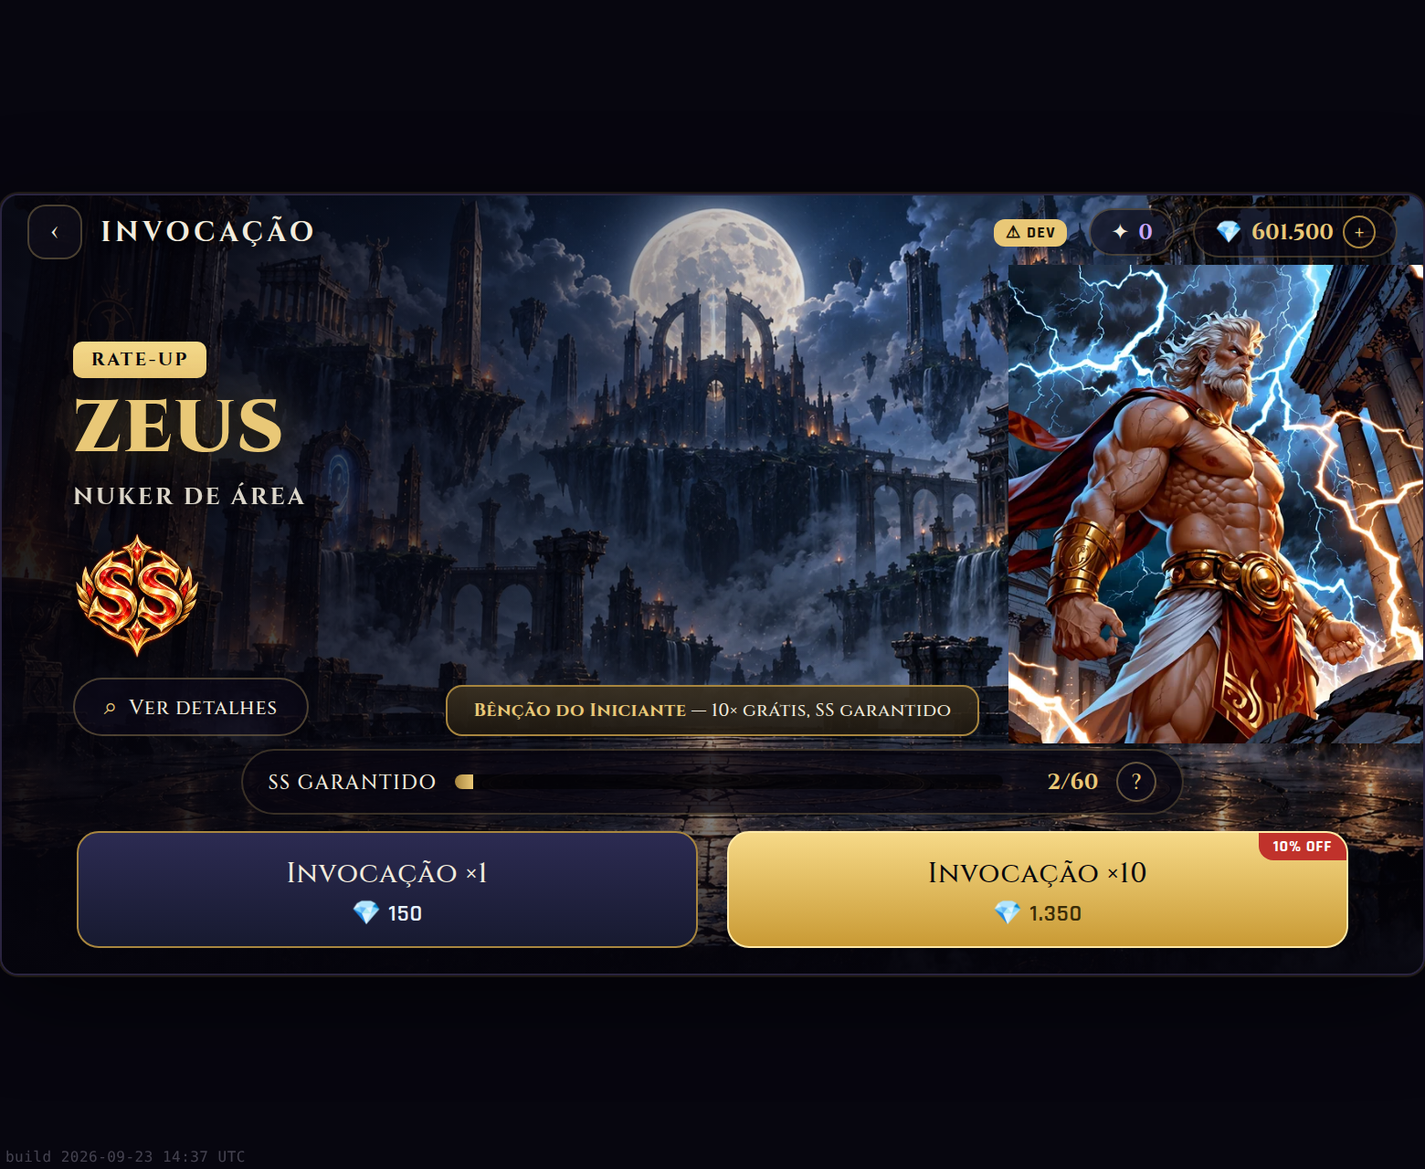
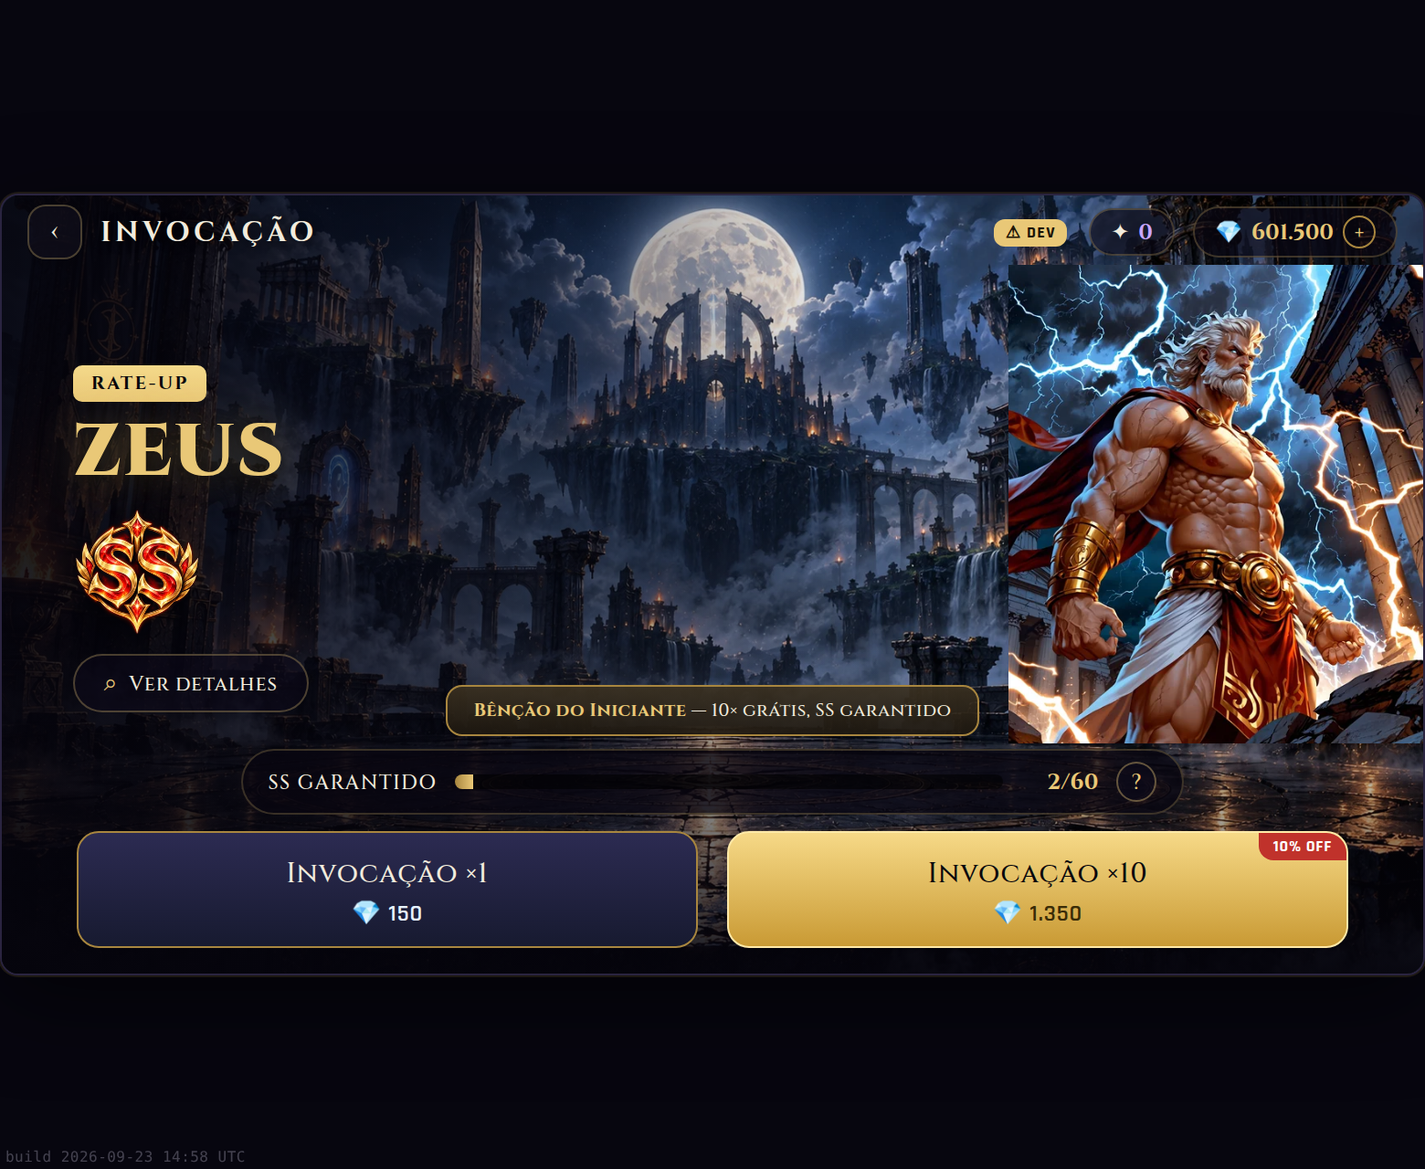
§304b invocação: epíteto sai da tela; frase liberada por destaque, não pelos 100
Duas decisões que encolhem escopo (dono):

1) O EPÍTETO SAI da tela de invocação. "Nuker de área" é legenda mecânica — boa na Coleção,
   ruim sob o nome numa tela de cerimônia. Tirei a linha (.iv-hero__arq fora); o nome grande +
   o selo bastam. Libera ~26px na coluna herói; a figura não desce sozinha (o limite dela é a
   barra de pity, não a coluna). Se um dia houver campo de epíteto próprio, ele volta.

2) A FRASE fica liberada, mas por DESTAQUE, não pelos 100. frase vira conteúdo do banner
   (data/invocacao.json → INVOCACAO.destaque.frase), não campo do elenco (§283 supera o §288).
   Escreve-se a de quem entra em destaque, uma por vez; ausente → some (nunca inventada).
   Guarda §292 ajustado: a citação saiu da sobreposição da Coleção (col2ov__cite removido do
   render e do CSS) — a Coleção continua sem orçamento e não mostra frase nem com frase no dado;
   só a invocação a comporta (~200-220 chars). Regra: frase é conteúdo do destaque, não do elenco.
   destaque.frase fica vazio (o dono escreve a do Zeus quando quiser).

Guardas: invocacao.test.js seção 12 (frase do destaque some/aparece; sem epíteto); colecao_tela
e colecao_encaixe (§292→§304b: Coleção não renderiza cite nem com frase); aquisicao (odds na
auditoria). Capturas 780/951 atualizadas. Suíte + build verdes.

Claude-Session: https://claude.ai/code/session_01RXkcJMEMadTZtCymgt9Yf6

Changed region(s): [[0.0308, 0.2812, 0.2154, 0.625]]

diff --git a/tests/colecao_encaixe.test.js b/tests/colecao_encaixe.test.js
@@ -66,36 +66,33 @@ const ok = (c, m) => { if (!c) { falhas++; console.log('  XX ' + m); } };
     }
   }
 
-  // (§295-cont) A FRASE (g.frase → col2ov__cite) é a dimensão que vai MORDER: o campo foi reservado no §288 p/ o dono
-  // escrever as 100; hoje 0/100 têm, então o bloco nunca renderiza cheio e nenhuma guarda o via — a assinatura exata do
-  // problema (a guarda percorre o que EXISTE NO DADO, não o que o CÓDIGO desenha). Aqui a dimensão é coberta ANTES da
-  // frase existir: (A) guarda de dado — enquanto a sobreposição não tiver ORÇAMENTO p/ a cite, nenhum deus pode ter
-  // frase (o dia que a 1ª entrar, ISTO quebra e força a decisão de onde a frase mora); (B) medição — semeia uma frase
-  // sintética de ~70 chars e imprime QUANTO corta, p/ o dono saber o orçamento antes de escrever.
+  // (§304b) A FRASE saiu da sobreposição: virou conteúdo do DESTAQUE (só a tela de invocação a mostra). O §288
+  // reservava g.frase → col2ov__cite AQUI; o §292/§295 provou que a sobreposição NÃO tem orçamento (uma cite corta
+  // a caixa de efeito). §304b resolve: a Coleção NÃO renderiza a cite, NEM com `frase` no dado. Esta guarda confirma
+  // que a sobreposição continua SEM LUGAR para a frase: (A) mesmo semeando frase em todos, ZERO cite aparece e ZERO
+  // efeito corta; (B) mede a folga vertical da caixa de efeito (~0), o motivo de a frase morar no destaque, não aqui.
   await page.setViewportSize({ width: 780, height: 428 });
   const frase = await page.evaluate(() => {
     ROSTER.forEach(e => { perfil.deuses[e.key] = perfil.deuses[e.key] || { obtidoEm: Date.now(), copias: 1 }; });
-    // (A) nenhum deus tem frase HOJE (a sobreposição não tem orçamento p/ a cite — medido §295)
-    const comFrase = ROSTER.filter(e => GODS[e.key] && GODS[e.key].frase).map(e => e.key);
-    // (B) mede o orçamento: semeia 70 chars em todos e conta os efeitos que passam a cortar (piso 780, o pior)
     const F = 'Aquele que caminha entre os mundos e nunca teme a morte alheia ou a sua';
-    ROSTER.forEach(e => { if (GODS[e.key]) GODS[e.key].frase = F; });
+    ROSTER.forEach(e => { if (GODS[e.key]) GODS[e.key].frase = F; });   // semeia frase em TODOS (o pior caso)
     ir('colecao', {}, { substituir: true }); render();
-    let corta = 0, citeH = 0;
+    let cites = 0, corta = 0, folgaMin = 1e9;
     for (const e of ROSTER) {
       colAbrirVer(e.key);
-      const cite = document.querySelector('.col2ov__cite'); if (cite && !citeH) citeH = Math.round(cite.getBoundingClientRect().height);
+      if (document.querySelector('#col2ov .col2ov__cite')) cites++;   // §304b: deve seguir 0 (a Coleção não mostra frase)
       for (const slot of ['basico', 'habilidade', 'milagre', 'passiva']) {
         const chip = document.querySelector('#col2ov .col2ov__sk[data-versel="' + slot + '"]'); if (chip) chip.dispatchEvent(new MouseEvent('click', { bubbles: true }));
-        const dt = document.querySelector('#col2ovdet .col2ov__deftxt'); if (dt && dt.scrollHeight > dt.clientHeight + 1) corta++;
+        const dt = document.querySelector('#col2ovdet .col2ov__deftxt'); if (dt) { if (dt.scrollHeight > dt.clientHeight + 1) corta++; folgaMin = Math.min(folgaMin, dt.clientHeight - dt.scrollHeight); }
       }
       colFecharVer();
     }
     ROSTER.forEach(e => { if (GODS[e.key]) delete GODS[e.key].frase; });   // limpa o synthetic
-    return { comFrase, citeH, corta, fraseLen: F.length };
+    return { cites, corta, folgaMin, fraseLen: F.length };
   });
-  ok(frase.comFrase.length === 0, `§295: ${frase.comFrase.length} deuses já têm g.frase (${frase.comFrase.slice(0, 5).join(',')}) — a sobreposição NÃO tem orçamento p/ a cite (medido: uma frase corta a caixa de efeito). Dê uma casa à frase (fora da caixa de efeito do §292) ANTES de escrevê-las, senão cortam.`);
-  console.log(`  §295 FRASE — orçamento medido: uma frase de ${frase.fraseLen} chars (cite ${frase.citeH}px) faria ${frase.corta}/400 efeitos CORTAREM a 780. Orçamento atual da cite na sobreposição: ~0 (a caixa de efeito do §292 tem só ~6px de folga). Nenhum deus tem frase hoje: ${frase.comFrase.length === 0 ? 'ok' : 'JÁ QUEBROU'}.`);
+  ok(frase.cites === 0, `§304b: a sobreposição da Coleção NÃO renderiza citação nem com frase no dado (viram ${frase.cites} cites) — a frase é do destaque, não do elenco`);
+  ok(frase.corta === 0, `§304b: sem cite na sobreposição, nenhum efeito corta (${frase.corta}/400) — a frase não rouba o orçamento daqui`);
+  console.log(`  §304b FRASE — a Coleção não comporta a cite (folga da caixa de efeito ~${frase.folgaMin}px, medida §292): por isso a frase mora no DESTAQUE (tela de invocação, ~200-220 chars). Com frase em todos: ${frase.cites} cites, ${frase.corta}/400 cortes na Coleção.`);
 
   await browser.close();
   console.log(falhas === 0 ? '\n>>> COLEÇÃO-ENCAIXE OK' : `\n>>> ${falhas} FALHA(S)`);

diff --git a/tests/invocacao.test.js b/tests/invocacao.test.js
@@ -34,7 +34,7 @@ console.log('== 2. a tela monta a partir do botão Invocar ==');
   ok(w.eval('typeof INV.claimIniciante') === 'function', 'claimIniciante é a porta única da oferta grátis');
   // §304: layout do mockup — o deus em destaque é nome (Cinzel) + arquétipo + selo grande; cartas só na revelação.
   ok(!!$('.iv-hero__nome') && $('.iv-hero__nome').textContent.trim().length > 0, 'o NOME do deus em destaque renderiza (coluna herói)');
-  ok(!!$('.iv-hero__arq'), 'o ARQUÉTIPO do deus renderiza (epíteto do jogo, não "Pai dos Deuses")');
+  ok(!$('.iv-hero__arq'), '§304b: o EPÍTETO (arquétipo) NÃO aparece na tela de cerimônia — o nome + selo bastam');
   ok(!!$('.iv-hero__selo'), 'o SELO grande (§303) renderiza no herói');
   ok(!!$('.iv-oferta'), 'a Bênção do Iniciante aparece como OFERTA única inline (não aba)');
   ok(/\/60/.test($('#iv-pity').textContent), 'o pity de SS (/60) deveria aparecer');
@@ -205,15 +205,16 @@ console.log('== 12. §304 tela pelo mockup: preço do DADO, frase some, fundo/ar
     'os botões leem o custo de ECONOMIA.invocacao.custo (dado), não de um literal');
   ok(!/custo\s*[:=]\s*\d/.test(fonteInv) && !/cost\s*=\s*(150|1350)\b/.test(fonteInv), 'nenhum custo numérico escrito à mão em invocacao.js');
   ok(/10% OFF/.test($('.iv-pb.iv-x10').textContent), 'o selo 10% OFF fica no ×10 (o pacote de dez), não no ×1');
-  // (2) a FRASE some quando não existe (§292: reservada e vazia nos 100) e aparece quando há — nunca inventada.
-  ok(!$('.iv-hero__cite'), 'sem frase no dado, a linha de citação SOME (nada renderiza)');
-  ok(!w.eval('!!(GODS.zeus && GODS.zeus.frase)'), 'o dado NÃO tem frase preenchida (guarda §292 respeitada)');
-  w.eval("GODS[INVOCACAO.destaque.deus].frase='teste'; INV.render();");
-  ok(!!$('.iv-hero__cite'), 'com frase presente, a linha aparece (a tela É casa para a frase)');
-  w.eval("GODS[INVOCACAO.destaque.deus].frase=undefined; INV.render();");
+  // (2) §304b: a FRASE é conteúdo do DESTAQUE (INVOCACAO.destaque.frase), não do elenco. Some quando não há, aparece
+  //     quando o dono escreve a de quem entra em destaque — nunca inventada.
+  ok(!$('.iv-hero__cite'), 'sem frase no destaque, a linha de citação SOME (nada renderiza)');
+  ok(!w.eval('!!(INVOCACAO.destaque && INVOCACAO.destaque.frase)'), 'o destaque NÃO tem frase preenchida (não inventada)');
+  w.eval("INVOCACAO.destaque.frase='O céu obedece.'; INV.render();");
+  ok(!!$('.iv-hero__cite') && /O céu obedece/.test($('.iv-hero__cite').textContent), 'com frase no destaque, a linha aparece (a tela É a casa da frase)');
+  w.eval("INVOCACAO.destaque.frase=undefined; INV.render();");
   ok(!$('.iv-hero__cite'), 'removida a frase, a linha some de novo');
-  // (3) o ARQUÉTIPO é o do dado (GODS), não "Pai dos Deuses"
-  ok($('.iv-hero__arq').textContent.trim() === w.eval('GODS[INVOCACAO.destaque.deus].arquetipo'), 'o epíteto é o arquétipo do dado');
+  // (3) §304b: nada de epíteto/arquétipo nem de "Pai dos Deuses" nesta tela
+  ok(!$('.iv-hero__arq'), 'sem linha de epíteto/arquétipo na tela de invocação (§304b)');
   ok(!/pai dos deuses/i.test($('#iv').textContent), 'nada de "Pai dos Deuses" (rótulo da referência que não existe no jogo)');
   // (4) FUNDO e ARTE vêm do DADO, com placeholder sem 404: presente → url externo; a config é do banner (INVOCACAO)
   const fundoBg = $('#iv-fundo').style.backgroundImage;

diff --git a/src/invocacao.js b/src/invocacao.js
@@ -395,17 +395,17 @@ const INV = (function () {
     const ar = arteDestaqueURL(); const arteEl = document.getElementById('iv-arte');
     if (arteEl) { arteEl.style.backgroundImage = ar ? `url(${ar})` : ''; arteEl.classList.toggle('iv-arte--ph', !ar); }
 
-    // COLUNA HERÓI (esquerda): RATE-UP, nome (Cinzel), arquetipo, selo grande (§303), frase (SOME se não houver — §252/§292),
-    // VER DETALHES → auditoria/taxas. arquetipo e frase vêm do catálogo (GODS), não do código.
-    const gInfo = (typeof GODS !== 'undefined' && GODS[FEAT_SS]) || {};
-    const nome = (byKey[FEAT_SS] && byKey[FEAT_SS].nome) || gInfo.nome || FEAT_SS;
-    const arq = gInfo.arquetipo ? `<div class="iv-hero__arq">${esc(gInfo.arquetipo)}</div>` : '';
-    // §292: `frase` é reservada e VAZIA nos 100; sem frase, a linha SOME (nada renderiza) — nunca inventada.
-    const cite = gInfo.frase ? `<p class="iv-hero__cite">“${esc(gInfo.frase)}”</p>` : '';
+    // COLUNA HERÓI (esquerda): RATE-UP, nome (Cinzel), selo grande (§303), frase (SOME se não houver), VER DETALHES.
+    // §304b: o EPÍTETO (arquetipo) SAIU desta tela — é legenda MECÂNICA (boa na Coleção, ruim numa tela de cerimônia).
+    // O nome grande + o selo já dizem o que a tela precisa. Se um dia houver um campo de epíteto PRÓPRIO, ele volta.
+    const nome = (byKey[FEAT_SS] && byKey[FEAT_SS].nome) || (typeof GODS !== 'undefined' && GODS[FEAT_SS] && GODS[FEAT_SS].nome) || FEAT_SS;
+    // §304b: a FRASE é conteúdo do DESTAQUE (data/invocacao.json → INVOCACAO.destaque.frase), NÃO do elenco (§283 supera o
+    // §288: a frase deixa de ser campo por-deus). Escreve-se a de quem ENTRA em destaque, uma por vez. Sem frase, SOME (§252).
+    const fr = (typeof INVOCACAO !== 'undefined' && INVOCACAO.destaque && INVOCACAO.destaque.frase) || '';
+    const cite = fr ? `<p class="iv-hero__cite">“${esc(fr)}”</p>` : '';
     document.getElementById('iv-hero').innerHTML = `
       <span class="iv-hero__tag">RATE-UP</span>
       <h1 class="iv-hero__nome">${esc(nome)}</h1>
-      ${arq}
       ${seloHeroHTML()}
       ${cite}
       <button class="iv-hero__det" onclick="INV.openAudit()"><span class="iv-hero__lupa">⌕</span> Ver detalhes</button>`;

diff --git a/tests/colecao_tela.test.js b/tests/colecao_tela.test.js
@@ -173,11 +173,12 @@ console.log('\n== 7c. §288: caixa lê data/deuses (fonte única); citação som
   w.eval("GODS.zeus.ab.find(a=>a.slot==='basico').desc='SENTINELA288 zzz'; colAbrirVer('zeus');");
   ok(/SENTINELA288/.test($('#col2ovdet').textContent), 'mudar o data/deuses muda a caixa de detalhe (fonte única)');
   w.eval(`GODS.zeus.ab.find(a=>a.slot==='basico').desc=${JSON.stringify(orig)}; colFecharVer();`);
-  // CITAÇÃO reservada (§252): sem frase (nenhum deus tem `frase` hoje) o espaço some; com frase, aparece
+  // §304b (§283 supera o §288): a CITAÇÃO saiu da sobreposição da Coleção — a frase virou conteúdo do DESTAQUE
+  // (só a tela de invocação a mostra; a sobreposição não tem orçamento, §292). Nem com `frase` no dado a Coleção a exibe.
   w.eval("colAbrirVer('zeus');");
-  ok(!$('#col2ov .col2ov__cite'), 'sem frase, a citação NÃO aparece (espaço reservado, some — como o painel de mecânica do §252)');
+  ok(!$('#col2ov .col2ov__cite'), 'a sobreposição da Coleção NÃO tem citação (frase é do destaque, não do elenco)');
   w.eval("colFecharVer(); GODS.zeus.frase='Do fogo que aquece.'; colAbrirVer('zeus');");
-  ok(!!$('#col2ov .col2ov__cite') && /Do fogo que aquece/.test($('#col2ov .col2ov__cite').textContent), 'com frase (conteúdo do dono em data/deuses), a citação aparece');
+  ok(!$('#col2ov .col2ov__cite'), 'mesmo com frase no dado, a Coleção NÃO renderiza citação (sem orçamento — §292/§304b)');
   w.eval("delete GODS.zeus.frase; colFecharVer(); ir('colecao',{},{substituir:true}); render();");
 }
 

diff --git a/src/ui/home.js b/src/ui/home.js
@@ -1093,9 +1093,9 @@ function colOverlayCardHTML(k){
   const posse = tem
     ? `<span class="col2ov__posse col2ov__posse--tem">Possuído · ${colCopias(k)} cópia${colCopias(k) === 1 ? '' : 's'}</span>`
     : `<span class="col2ov__posse col2ov__posse--nao">Não possuído</span>`;
-  // §288: a CITAÇÃO é conteúdo do dono (uma frase por deus em `g.frase`, data/deuses), NÃO inventada. Reservada
-  // como o painel de mecânica do §252: sem frase, o espaço SOME (nada renderiza). Hoje nenhum deus tem `frase`.
-  const cite = g.frase ? `<p class="col2ov__cite">“${H(g.frase)}”</p>` : '';
+  // §304b (§283 supera o §288): a CITAÇÃO NÃO mora mais na sobreposição da Coleção. A frase virou conteúdo do
+  // DESTAQUE (data/invocacao.json → só a tela de invocação), porque a sobreposição NÃO tem orçamento para ela
+  // (§292: uma cite corta a caixa de efeito). Aqui a linha não existe — nem com `frase` no dado, a Coleção a mostra.
   return `<div class="col2ov__card ${tem ? '' : 'col2ov--falta'}">
       <div class="col2ov__retrato">
         ${slot('god-' + k, ini(colNome(k)), tem ? COR(g.elem) : '#6a6390', 72)}
@@ -1119,7 +1119,6 @@ function colOverlayCardHTML(k){
           <button class="col2ov__modo${colVerModo === 'sinergia' ? ' is-on' : ''}" data-modo="sinergia">SINERGIA</button>
         </div>
         <div class="col2ov__corpo" id="col2ovcorpo">${colVerModo === 'sinergia' ? colVerSinergiaHTML(k, g) : colVerKitHTML(k, g)}</div>
-        ${cite}
       </div>
     </div>`;
 }

diff --git a/src/shell.html b/src/shell.html
@@ -1588,8 +1588,8 @@ body{font-family:'Rajdhani',sans-serif;color:var(--ink);display:grid;place-items
 .col2ov__deftxt{flex:1 1 auto;min-height:0;overflow-y:auto;font-weight:500;font-size:12.5px;line-height:1.42;color:var(--ink-dim);scrollbar-width:thin}
 .col2ov__deftxt::-webkit-scrollbar{width:6px} .col2ov__deftxt::-webkit-scrollbar-thumb{background:#3a3360;border-radius:3px}
 .col2ov__detvazio{color:var(--ink-mute);font-size:12px;padding:8px 0}
-.col2ov__cite{flex:0 0 auto;margin:10px 0 0;font-style:italic;font-weight:500;font-size:12px;color:var(--ink-mute);
-  text-align:center;border-top:1px solid rgba(216,178,90,.14);padding-top:8px}
+/* §304b: .col2ov__cite REMOVIDO — a citação saiu da sobreposição da Coleção (a frase virou conteúdo do destaque,
+   só na tela de invocação; a sobreposição não tem orçamento, §292). CSS morto não fica dormente (lição §303). */
 /* §294 — MODOS da sobreposição: KIT (seletor+detalhe §288) | SINERGIA (lista completa, motivo INTEIRO, aqui há
    largura). O corpo é a área flexível: em KIT a caixa de detalhe rola; em SINERGIA a lista rola. */
 .col2ov__modos{flex:0 0 auto;display:flex;gap:6px;margin:2px 0 2px}

diff --git a/tools/build.js b/tools/build.js
@@ -421,7 +421,11 @@ const invocacaoObj = (() => {
   const rar = (JSON.parse(raridades) || {})[d.deus] || null;
   if (rar !== 'SS') { console.error('ERRO §304: destaque.deus "' + d.deus + '" tem raridade ' + rar + ', mas o destaque só destaca SS (§20)'); process.exit(1); }
   if (typeof d.fundo !== 'string' || !d.fundo) { console.error('ERRO §304: destaque.fundo deve ser um basename (string)'); process.exit(1); }
-  return { destaque: { deus: d.deus, fundo: d.fundo } };
+  // §304b: `frase` (opcional) é conteúdo do DESTAQUE, não do elenco — a citação de quem entra em destaque, uma por vez.
+  if (d.frase != null && typeof d.frase !== 'string') { console.error('ERRO §304: destaque.frase, se presente, deve ser string'); process.exit(1); }
+  const out = { destaque: { deus: d.deus, fundo: d.fundo } };
+  if (d.frase) out.destaque.frase = d.frase;
+  return out;
 })();
 // §304 (padrão §276/§298): FUNDOS de invocação por ARQUIVO em web/banners/invocacao/<nome>.webp (trocável por
 // mitologia/deus). A build ANOTA quais existem; a tela só usa o presente, ausente → gradiente placeholder, NUNCA

diff --git a/DECISOES.md b/DECISOES.md
@@ -49,9 +49,25 @@ do "?" da barra (mesma auditoria de taxas). O contador de sessão (tally) e a li
 frase SOME quando ausente e aparece quando há; arquétipo é o do dado (nada de "Pai dos Deuses"); fundo e arte vêm do dado e
 caem em placeholder sem 404; o pity mostrado é o do perfil e o teto é o do economia. Capturas 780 e 951 em `docs/capturas-304/`.
 
-**Arquivos:** `data/invocacao.json` (novo), `web/banners/invocacao/olimpo.webp` (novo), `tools/build.js` (INVOCACAO + INVOC_FUNDO),
-`src/invocacao.js` (tela refeita), `src/shell.html` (CSS da tela), `tests/invocacao.test.js`, `docs/capturas-304/`. Ver ESTADO
-§304. Suíte + build verdes.
+**§304b — DUAS DECISÕES que encolhem escopo (dono).**
+1. **O EPÍTETO SAI da tela de invocação.** "Nuker de área" é legenda MECÂNICA — boa na Coleção (comparar kits), ruim sob o
+   nome numa tela de cerimônia. Não inventei epíteto nem pedi 100: **tirei a linha** (`.iv-hero__arq` fora do herói). O nome
+   grande + o selo já dizem o que a tela precisa; se um dia houver um campo de epíteto PRÓPRIO, ele volta. **Liberado na coluna:
+   ~26px de design** (a linha 13px ≈ 18px + o gap de 8px). Não desce a figura sozinho: o limite da figura é a **barra de pity**
+   (`bottom:126`), não a coluna herói; descer mais é o trade-off da barra (decisão à parte). A coluna re-centra com mais ar.
+2. **A FRASE fica LIBERADA, mas por DESTAQUE, não pelos 100.** `frase` vira **conteúdo do banner** (`data/invocacao.json` →
+   `INVOCACAO.destaque.frase`), NÃO campo do elenco (§283 **supera o §288**, que a reservava por-deus na sobreposição). Escreve-se
+   a frase de **quem entra em destaque, uma por vez, quando o banner rodar**; ausente → a linha SOME (nunca inventada). **Guarda
+   §292 ajustado:** a citação **saiu da sobreposição da Coleção** (`col2ov__cite` removido do render e do CSS) — medido: a
+   sobreposição continua **sem orçamento** (a caixa de efeito tem ~0 de folga; uma cite cortaria), então a Coleção **não mostra
+   a frase nem com `frase` no dado**. A tela de invocação é a única com espaço (~200–220 chars, §304). **Regra registrada:
+   frase é conteúdo do DESTAQUE, não do elenco.** (Deixei `destaque.frase` VAZIO — o dono escreve a do Zeus quando quiser.)
+
+**Arquivos:** `data/invocacao.json` (novo; `frase` opcional no destaque), `web/banners/invocacao/olimpo.webp` (novo),
+`tools/build.js` (INVOCACAO + INVOC_FUNDO + `frase`), `src/invocacao.js` (tela refeita; epíteto fora; frase do destaque),
+`src/ui/home.js` (cite fora da sobreposição), `src/shell.html` (CSS da tela; `.col2ov__cite` removido),
+`tests/invocacao.test.js` (seção 12), `tests/colecao_tela.test.js` + `tests/colecao_encaixe.test.js` (§292→§304b),
+`tests/aquisicao.test.js` (odds na auditoria), `docs/capturas-304/`. Ver ESTADO §304. Suíte + build verdes.
 
 ---
 

diff --git a/ESTADO.md b/ESTADO.md
@@ -22,10 +22,18 @@ vem do dado (validado na build: existe e é SS), pool como fallback. Assets: `we
 **§302 intacto:** uma invocação, pity que não zera ao trocar destaque, iniciante como oferta única. "Auditar 1000" mora atrás
 do "Ver detalhes" e do "?". Tally e odds inline saíram da tela principal (a auditoria cobre) — reversível.
 
-**GUARDA:** `tests/invocacao.test.js` seção 12 (preço do dado sem literal; frase some/aparece; arquétipo do dado; fundo/arte do
-dado + placeholder sem 404; pity do perfil, teto do economia). Capturas 780/951 em `docs/capturas-304/`. **Arquivos:**
-`data/invocacao.json`, `web/banners/invocacao/olimpo.webp`, `tools/build.js`, `src/invocacao.js`, `src/shell.html`,
-`tests/invocacao.test.js`, `docs/capturas-304/`. Ver DECISOES §304. Suíte + build verdes.
+**§304b (encolhe escopo):** (1) **o EPÍTETO saiu** da tela de invocação — "Nuker de área" é legenda mecânica, ruim na
+cerimônia; o nome + selo bastam (libera ~26px na coluna; a figura não desce sozinha — o limite dela é a barra de pity, não a
+coluna). (2) **a FRASE fica liberada, mas por DESTAQUE** (`INVOCACAO.destaque.frase`, `data/invocacao.json`), NÃO pelos 100
+(§283 supera o §288): escreve-se a de quem entra em destaque, uma por vez; ausente → some. **Guarda §292 ajustado:** a
+citação **saiu da sobreposição da Coleção** (sem orçamento — medido; a Coleção não mostra frase nem com `frase` no dado);
+só a invocação a comporta. Regra: **frase é conteúdo do destaque, não do elenco.** `destaque.frase` fica VAZIO (o dono escreve).
+
+**GUARDA:** `tests/invocacao.test.js` seção 12 (preço do dado sem literal; frase do destaque some/aparece; SEM epíteto; sem
+"Pai dos Deuses"; fundo/arte do dado + placeholder sem 404; pity do perfil, teto do economia); `colecao_tela`/`colecao_encaixe`
+(§292→§304b: a Coleção não renderiza cite nem com frase); `aquisicao` (odds na auditoria). Capturas 780/951 em `docs/capturas-304/`.
+**Arquivos:** `data/invocacao.json`, `web/banners/invocacao/olimpo.webp`, `tools/build.js`, `src/invocacao.js`, `src/ui/home.js`,
+`src/shell.html`, `tests/invocacao.test.js` + `colecao_tela`/`colecao_encaixe`/`aquisicao`, `docs/capturas-304/`. Ver DECISOES §304. Suíte + build verdes.
 
 ## ★ SELOS §303 — a arte é de MOMENTO, não de LISTA: vai SÓ para a REVELAÇÃO, não para os selos pequenos.
 
